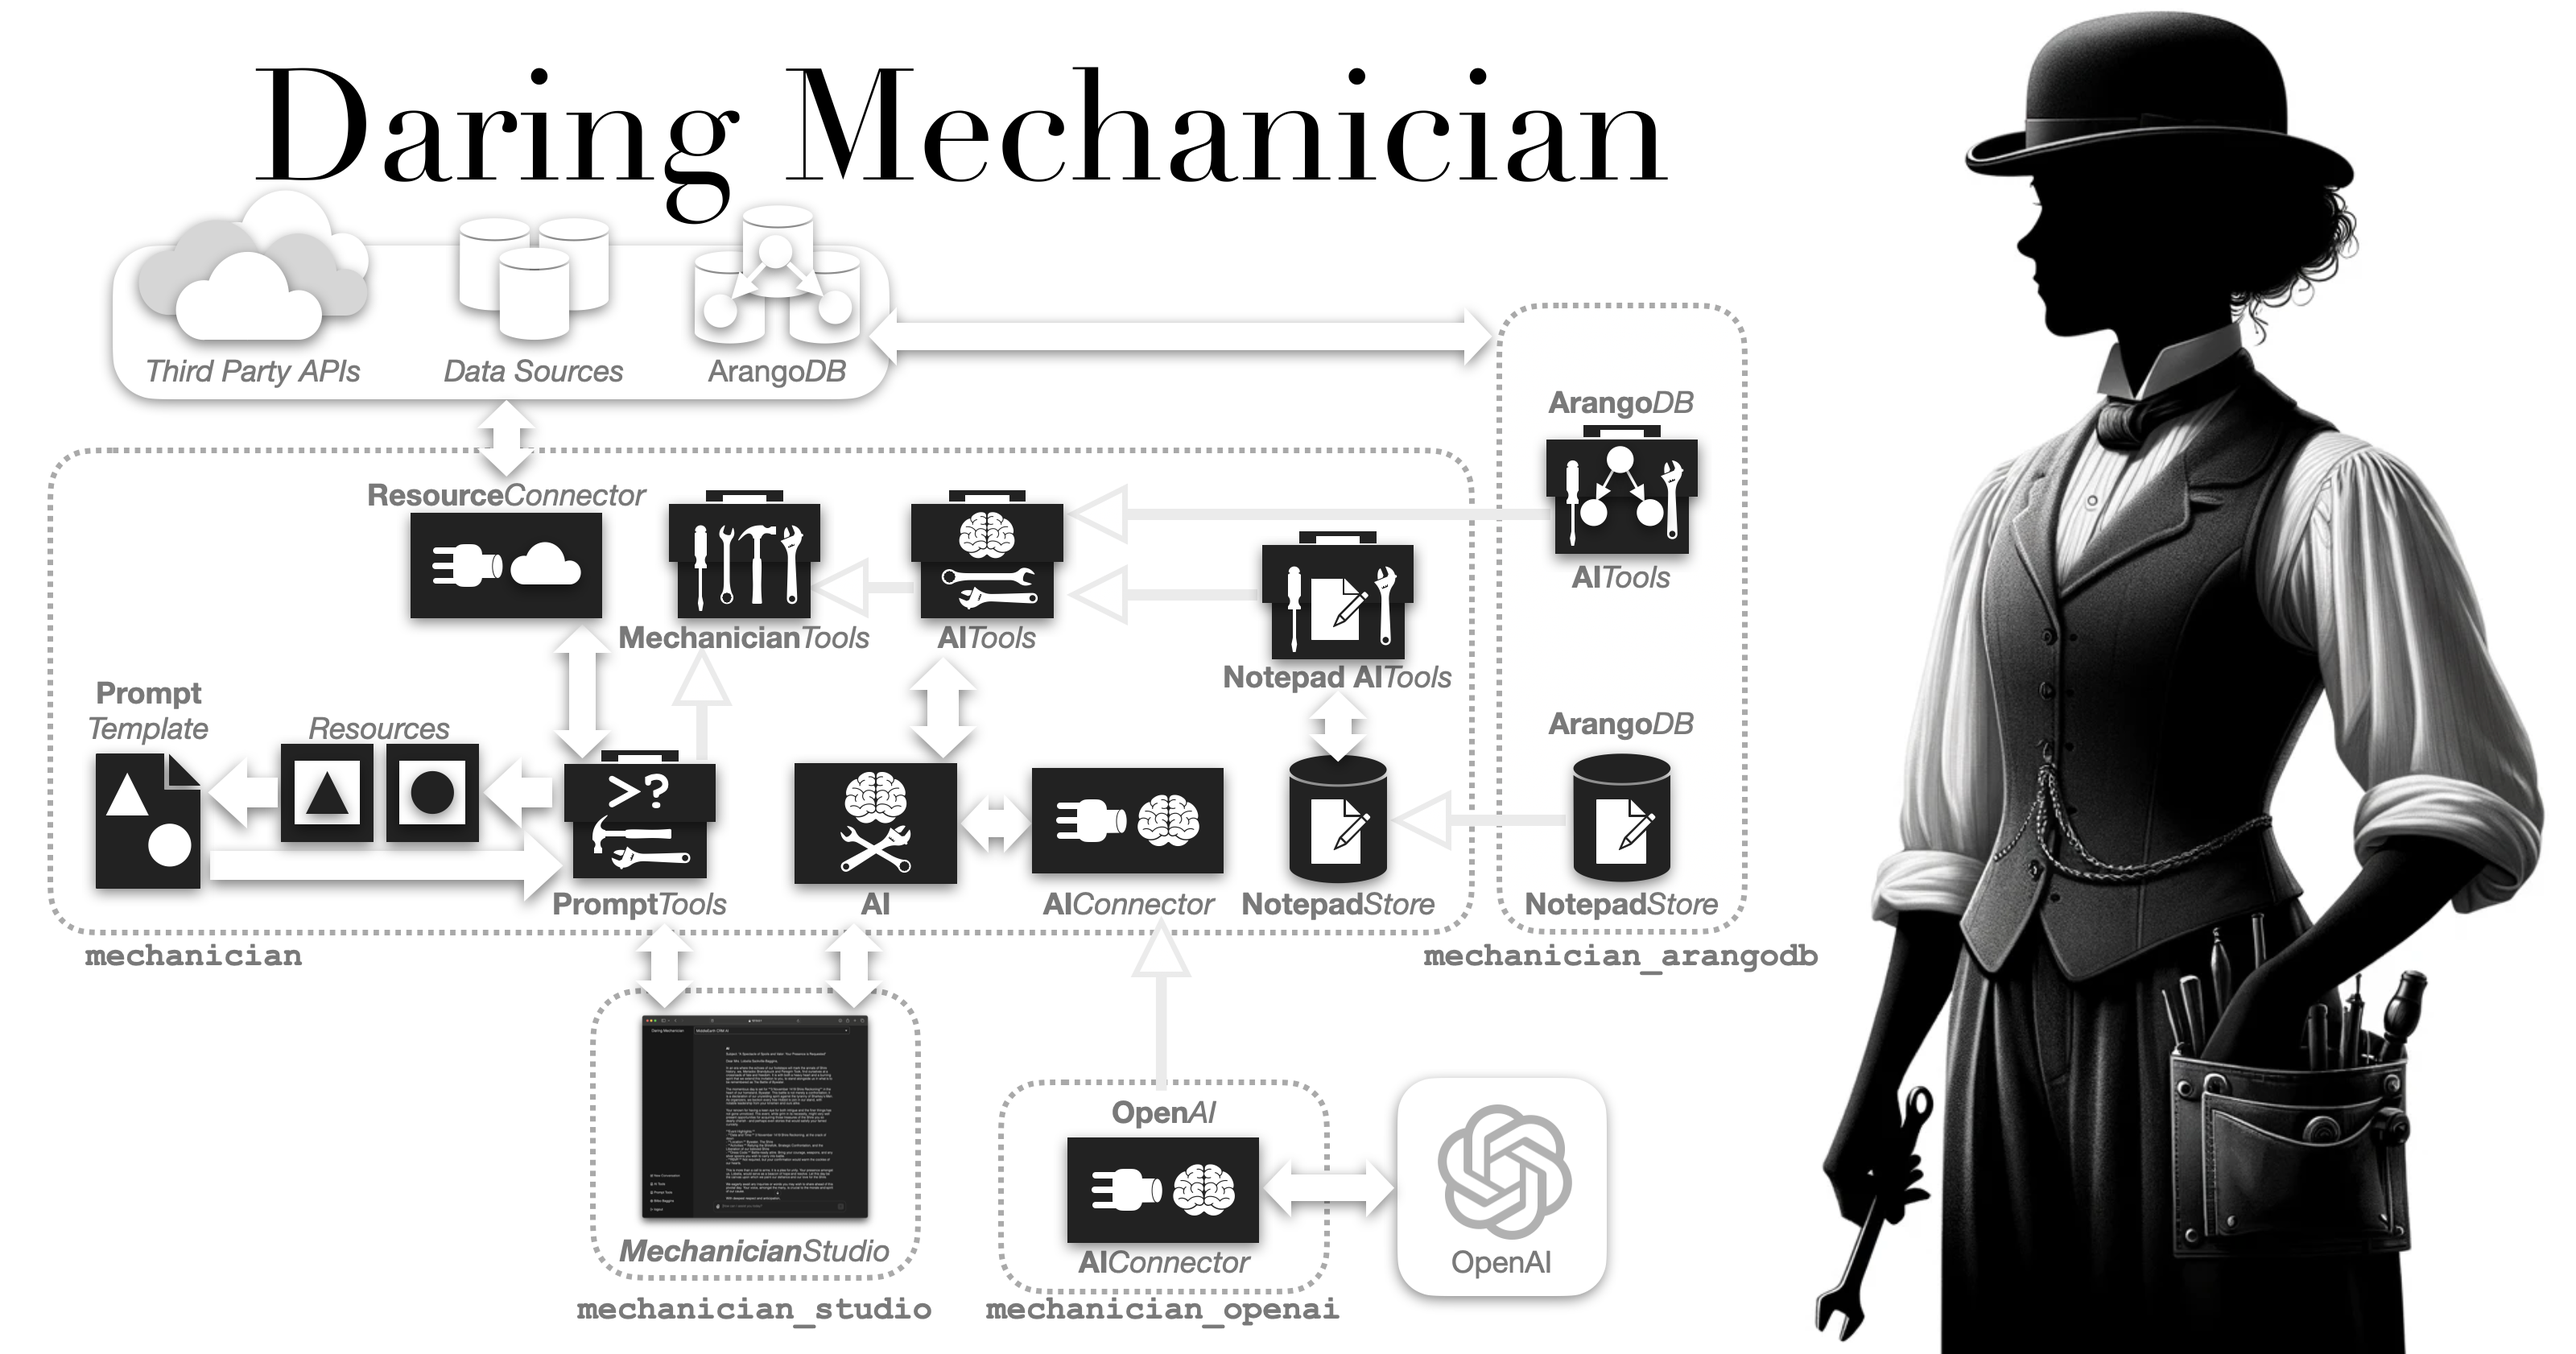
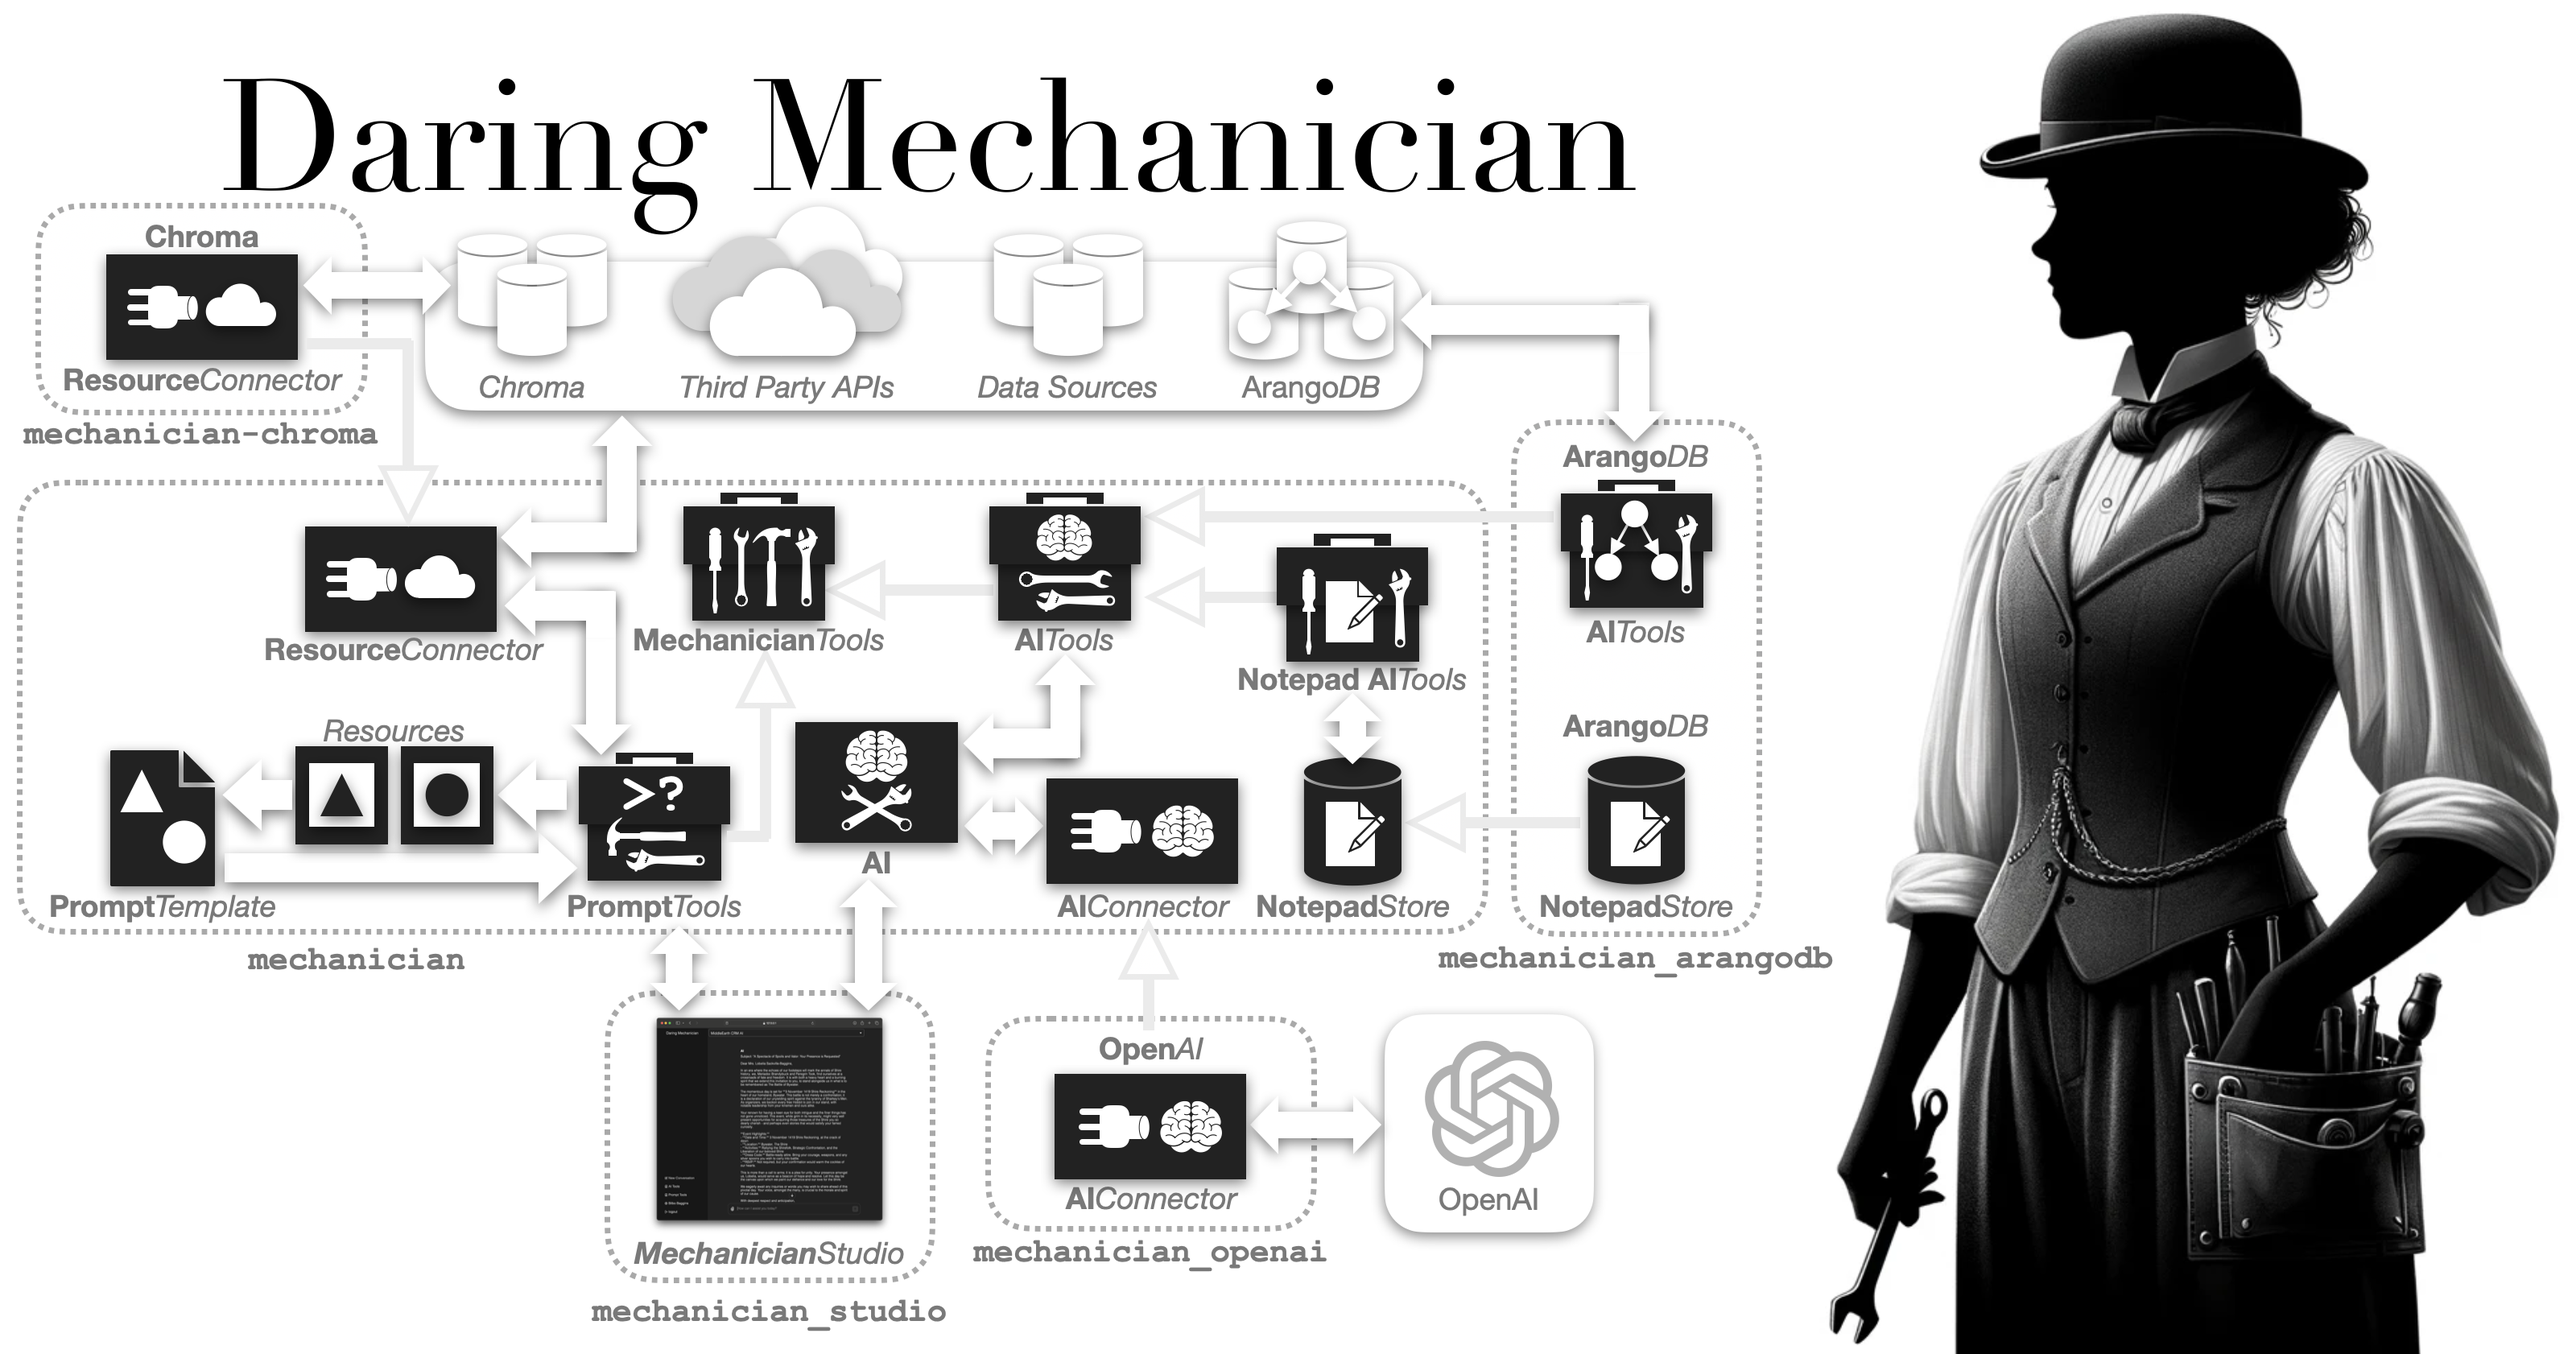
Added mechanician-chroma package.

Changed region(s): [[0.0, 0.0309, 1.0, 1.0], [0.75, 0.0, 0.9062, 0.2473]]

diff --git a/packages/mechanician_chroma/setup.py b/packages/mechanician_chroma/setup.py
@@ -1,22 +1,22 @@
 from setuptools import setup, find_packages
 
 setup(
-    name='mechanician_studio_demo',
-    version='0.1',
+    name='mechanician_chroma',
+    version='0.1.4',
     packages=find_packages(where='src'),
     package_dir={'': 'src'},
-    include_package_data=True,  # Required to include files specified in MANIFEST.in
     install_requires=[
         'mechanician>=0.1.3',
-        'mechanician-openai>=0.1.3',
-        'mechanician-studio>=0.1.0',
-        'mechanician-arangodb>=0.1.3',
-        'mechanician-chroma>=0.1.4',
-        'python-dotenv>=0.17.1',
+        'chromadb>=0.1.0',
+        'beautifulsoup4>=4.9.3',
+        'requests>=2.25.1',
+        'sentence_transformers>=2.0.0',
+        'langchain>=0.1.0',
+        'PyPDF2>=1.26.0',
     ],
     author='David Edgar Liebke',
     author_email='david@gmail.com',
-    description='Daring Mechanician Studio Demo.',
+    description='Daring Mechanician ResourceConnector for interacting with Chroma Embeddings Databases.',
     long_description=open('README.md').read(),
     long_description_content_type='text/markdown',
     url='https://github.com/liebke/mechanician',

diff --git a/examples/studio_demo/src/studio_demo/main.py b/examples/studio_demo/src/studio_demo/main.py
@@ -12,7 +12,7 @@ from pprint import pprint
 from mechanician import AIProvisioner
 
 from mechanician.tools import PromptToolsProvisioner
-from studio_demo.chroma_prompt_tools import ChromaConnectorProvisioner
+from mechanician_chroma.chroma_connector import ChromaConnectorProvisioner
 from studio_demo.middle_earth_crm import MiddleEarthCRM
 
 from studio_demo.tmdb_ai_tools import TMDbAIToolsProvisioner

diff --git a/README.md b/README.md
@@ -13,7 +13,9 @@ The `mechanician-studio` package provides a multi-user web interface for interac
 
 The `mechanician-openai` package provides `AIConnectors` for both OpenAI's *Chat* API and *Assistants* API, and there are plans to create connectors for more LLMs with *tool-call* support, especially local LLMs.
 
-The `mechanician-arangodb` module provides `AITools` that let AIs interact with the [ArangoDB](https://arangodb.com) graph database.
+The `mechanician-arangodb` package provides an example of `AITools` that let AIs interact with the [ArangoDB](https://arangodb.com) graph database.
+
+The `mechanician-chroma` package provides an example of a `ResourceConnector` for the [Chroma](https://docs.trychroma.com) Embeddings database that enables `PromptTools` to use Chroma as a resource for `PromptTemplates`.
 
 
 # Mechanician Studio
@@ -24,11 +26,13 @@ The `mechanician-studio` package provides a multi-user web interface where each 
 <img src="docs/images/notepad_todo_animated.gif" alt="Daring Mechanician Studio Login"  style="max-width: 100%; height: auto float: right;">
 
 
+
 ## Prompt Tools: CRM Query
 
 In the following screenshot, the user uses Prompt Tools that let them create *prompts* using Prompt Templates that are populated by queries to a CRM system. After entering the query parameters and clicking the "Generate Prompt" button, the user is presented with the query results, referred to as Prompt Resources, and a *generated prompt* that merges these resources into the Prompt Template at the top of the screen. Clicking on the "Send Prompt" button sends the generated prompt to the AI, which then generates a response.
 
 <img src="docs/images/event_invite_animated.gif" alt="Daring Mechanician Studio Prompt Tools Event Invite"  style="max-width: 100%; height: auto float: right;">
+
 
 ## Prompt Tools: Vector Database Query
 
@@ -36,6 +40,7 @@ In the following screenshots, the user uses Prompt Tools that let them create *p
 
 <img src="docs/images/chroma_query_animated_1.gif" alt="Daring Mechanician Studio Prompt Tools Chroma Query 1"  style="max-width: 100%; height: auto float: right;">
 
+Once the prompt has been generated you can *send* it to the AI, which will generate a response based on the prompt.
 
 <img src="docs/images/chroma_query_animated_2.gif" alt="Daring Mechanician Studio Prompt Tools Chroma Query 2"  style="max-width: 100%; height: auto float: right;">
 

diff --git a/examples/studio_demo/README.md b/examples/studio_demo/README.md
@@ -1,0 +1,70 @@
+
+
+<img src="../../docs/images/dm_studio_1600x840.png" alt="Daring Mechanician Studio"  style="max-width: 100%; height: auto float: right;">
+
+<p style="clear: both; margin-top: 0; font-family: 'Tratatello', serif; color: darkgrey;">
+
+
+# Daring Mechanician Studio
+
+
+## Install
+
+Create a virtual environment and install the requirements.
+
+```bash
+conda create -n studio_demo_env python=3.11
+conda activate studio_demo_env
+```
+
+Install the example project using pip:
+
+```bash
+pip install -e .
+```
+
+or
+
+```bash
+./scripts/dev_install.sh
+```
+
+
+## SSL Certificates for Local Development: mkcert
+
+https://github.com/FiloSottile/mkcert
+
+```bash
+brew install mkcert
+```
+
+```bash
+mkcert -install
+```
+
+```bash
+mkdir certs
+```
+
+```bash
+mkcert -key-file ./certs/key.pem -cert-file ./certs/cert.pem localhost 127.0.0.1 ::1
+```
+
+```bash
+uvicorn.run("mechanician_studio.main:app", host="127.0.0.1", port=8000, ssl_keyfile="./certs/key.pem", ssl_certfile="./certs/cert.pem")
+```
+
+
+#### Run the interactive TAG AI shell:
+
+```bash
+./scripts/run.sh
+```
+
+
+## Exit the Virtual Environment and Clean Up
+
+```bash
+conda deactivate
+conda remove --name studio_demo_env --all
+```

diff --git a/docs/prompt_templates.md b/docs/prompt_templates.md
@@ -464,65 +464,3 @@ Call to Action:
 Contact Bilbo Baggins promptly to affirm case prioritization and offer support for any additional needs related to his product portfolio. Aim to provide a meaningful resolution and ensure overall satisfaction.
 
 
-
-
-## Install
-
-Create a virtual environment and install the requirements.
-
-```bash
-conda create -n studio_demo_env python=3.11
-conda activate studio_demo_env
-```
-
-Install the example project using pip:
-
-```bash
-pip install -e .
-```
-
-or
-
-```bash
-./scripts/dev_install.sh
-```
-
-
-## SSL Certificates for Local Development: mkcert
-
-https://github.com/FiloSottile/mkcert
-
-```bash
-brew install mkcert
-```
-
-```bash
-mkcert -install
-```
-
-```bash
-mkdir certs
-```
-
-```bash
-mkcert -key-file ./certs/key.pem -cert-file ./certs/cert.pem localhost 127.0.0.1 ::1
-```
-
-```bash
-uvicorn.run("mechanician_studio.main:app", host="127.0.0.1", port=8000, ssl_keyfile="./certs/key.pem", ssl_certfile="./certs/cert.pem")
-```
-
-
-#### Run the interactive TAG AI shell:
-
-```bash
-./scripts/run.sh
-```
-
-
-## Exit the Virtual Environment and Clean Up
-
-```bash
-conda deactivate
-conda remove --name studio_demo_env --all
-```

diff --git a/packages/mechanician_chroma/README.md b/packages/mechanician_chroma/README.md
@@ -1,0 +1,16 @@
+
+# Daring Mechanician-Chroma
+
+This package provides **Daring Mechanician** `ResourceConnector` for interacting with Chroma Embedding database.
+
+See [Daring Mechanician Github Repo](https://github.com/liebke/mechanician) for more information.
+
+
+## Run Chroma in Docker
+
+Set your environment variables:
+
+
+```bash
+docker run -p 8080:8000 chromadb/chroma
+```
